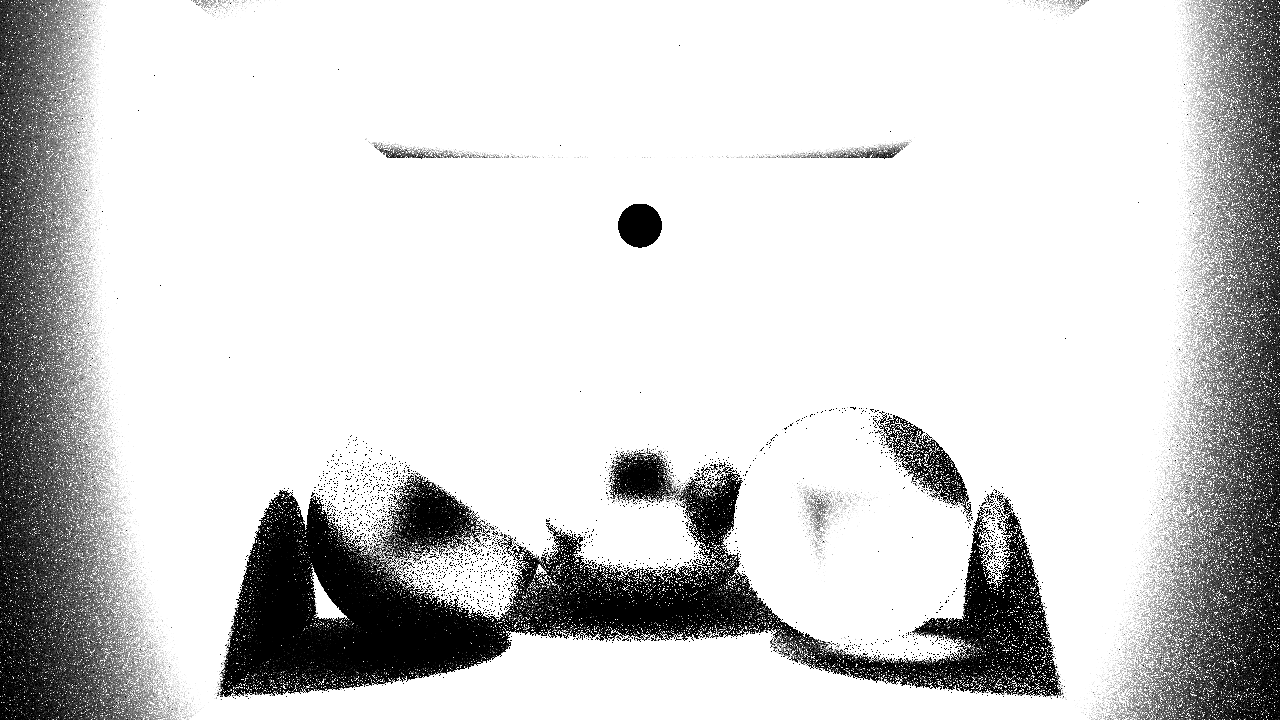
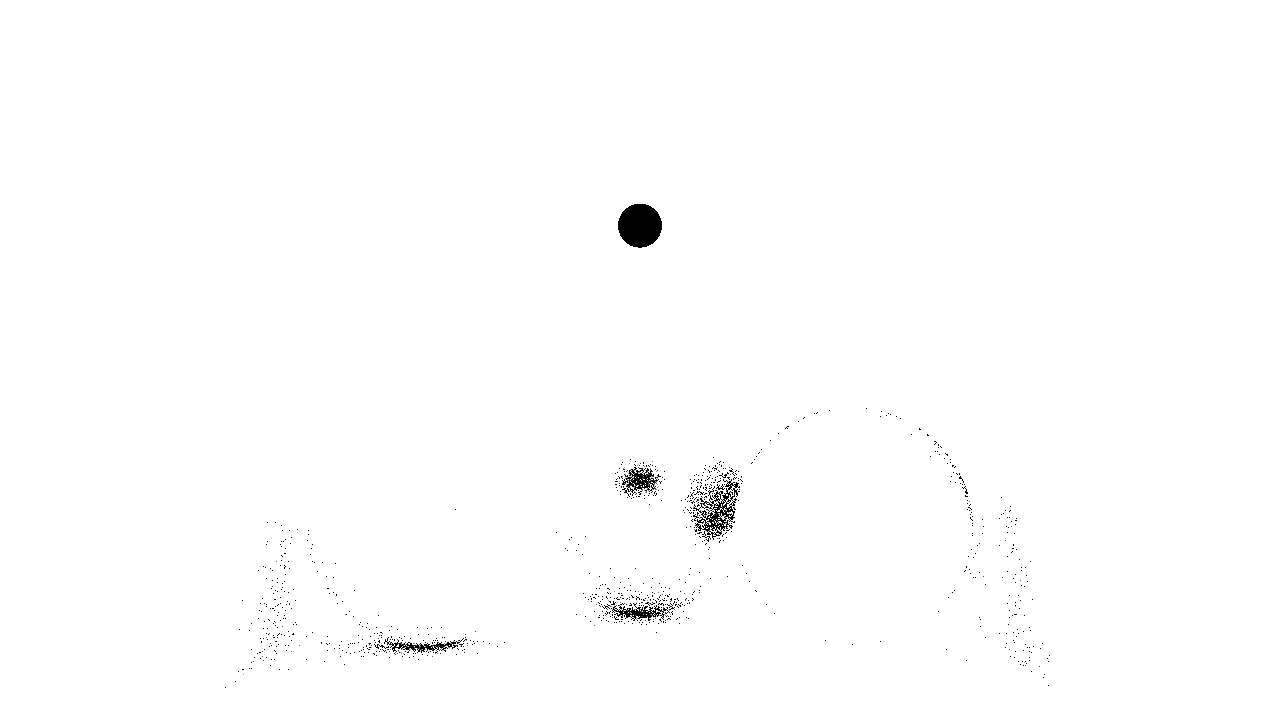
Fixed light prob

diff --git a/src/materials.h b/src/materials.h
@@ -227,31 +227,31 @@ public:
             // Direction
             const float r1{ sInfo.RandomFloat() };
             const float r2{ sInfo.RandomFloat() };
-            const float cosTheta{ sqrtf(1.0f - r2) };
-            const float sinTheta{ sqrtf(r2) };
-            const float phi{ 2.0f * M_PI * r1 };
-            const Vec3f localDir{ sinTheta * cosf(phi), sinTheta * sinf(phi), cosTheta };
-            const Vec3f helper{ (std::abs(sInfo.N().x) > 0.9f) ? Vec3f{ 0.0f, 1.0f, 0.0f } : Vec3f{ 1.0f, 0.0f, 0.0f } };
-            const Vec3f tangent{ helper.Cross(sInfo.N()).GetNormalized() };
-            const Vec3f bitangent{ sInfo.N().Cross(tangent).GetNormalized() };
-            dir = (tangent * localDir.x) + (bitangent * localDir.y) + (sInfo.N() * localDir.z);
-            dir.Normalize();
-            si.prob = cosTheta * (1.0f / M_PI) * diffuseProb;
-            si.mult = diffuse.GetValue() * (cosTheta * (1.0f / M_PI));
-            //const float phi{ 2.0f * M_PI * r2 };
-            //const float z{ sqrtf(r1) };
-            //const float sinTheta{ sqrtf(1.0f - r1) };
-            //const float x{ sinTheta * cos(phi) };
-            //const float y{ sinTheta * sin(phi) };
+            //const float cosTheta{ sqrtf(1.0f - r2) };
+            //const float sinTheta{ sqrtf(r2) };
+            //const float phi{ 2.0f * M_PI * r1 };
+            //const Vec3f localDir{ sinTheta * cosf(phi), sinTheta * sinf(phi), cosTheta };
+            //const Vec3f helper{ (std::abs(sInfo.N().x) > 0.9f) ? Vec3f{ 0.0f, 1.0f, 0.0f } : Vec3f{ 1.0f, 0.0f, 0.0f } };
+            //const Vec3f tangent{ helper.Cross(sInfo.N()).GetNormalized() };
+            //const Vec3f bitangent{ sInfo.N().Cross(tangent).GetNormalized() };
+            //dir = (tangent * localDir.x) + (bitangent * localDir.y) + (sInfo.N() * localDir.z);
+            //dir.Normalize();
+            //si.prob = cosTheta * (1.0f / M_PI) * diffuseProb;
+            //si.mult = diffuse.GetValue() * (cosTheta * (1.0f / M_PI));
+            const float phi{ 2.0f * M_PI * r2 };
+            const float z{ sqrtf(r1) };
+            const float sinTheta{ sqrtf(1.0f - r1) };
+            const float x{ sinTheta * cos(phi) };
+            const float y{ sinTheta * sin(phi) };
 
-            //Vec3f u, v;
-            //sInfo.N().GetOrthonormals(u, v);
-            //dir = (x * u) + (y * v) + (z * sInfo.N());
+            Vec3f u, v;
+            sInfo.N().GetOrthonormals(u, v);
+            dir = (x * u) + (y * v) + (z * sInfo.N());
 
-            ////si.mult = diffuse.GetValue() / diffuseProb;
             //si.mult = diffuse.GetValue() / diffuseProb;
-            ////si.prob = diffuseProb * (z / static_cast<float>(M_PI));
+            si.mult = diffuse.GetValue() / diffuseProb;
             //si.prob = diffuseProb * (z / static_cast<float>(M_PI));
+            si.prob = diffuseProb * (z / static_cast<float>(M_PI));
 
             return true;
         }

diff --git a/src/lights.h b/src/lights.h
@@ -226,7 +226,7 @@ public:
             return false;
 
         si.mult = intensity * (static_cast<float>(M_PI) / (si.dist * si.dist));
-        si.prob = 2.0f / (4.0f * M_PI * size * size);
+        si.prob = 1.0f / (4.0f * M_PI * size * size);
 
         return true;
     }
